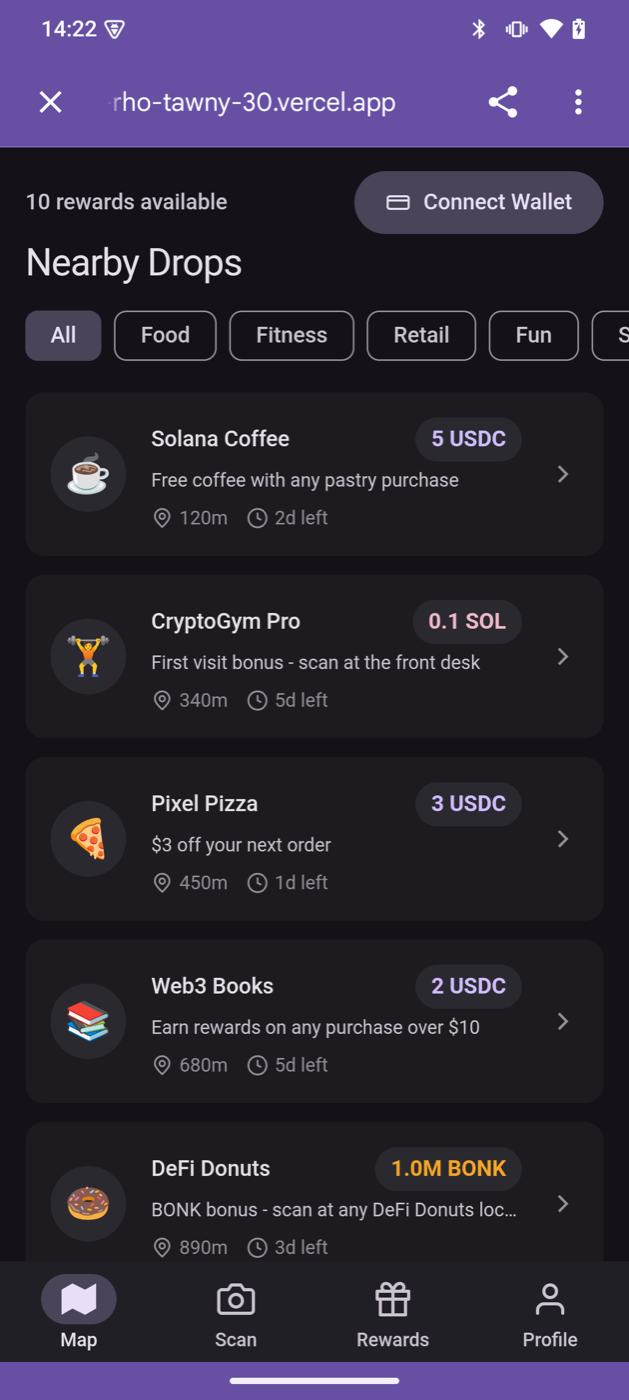
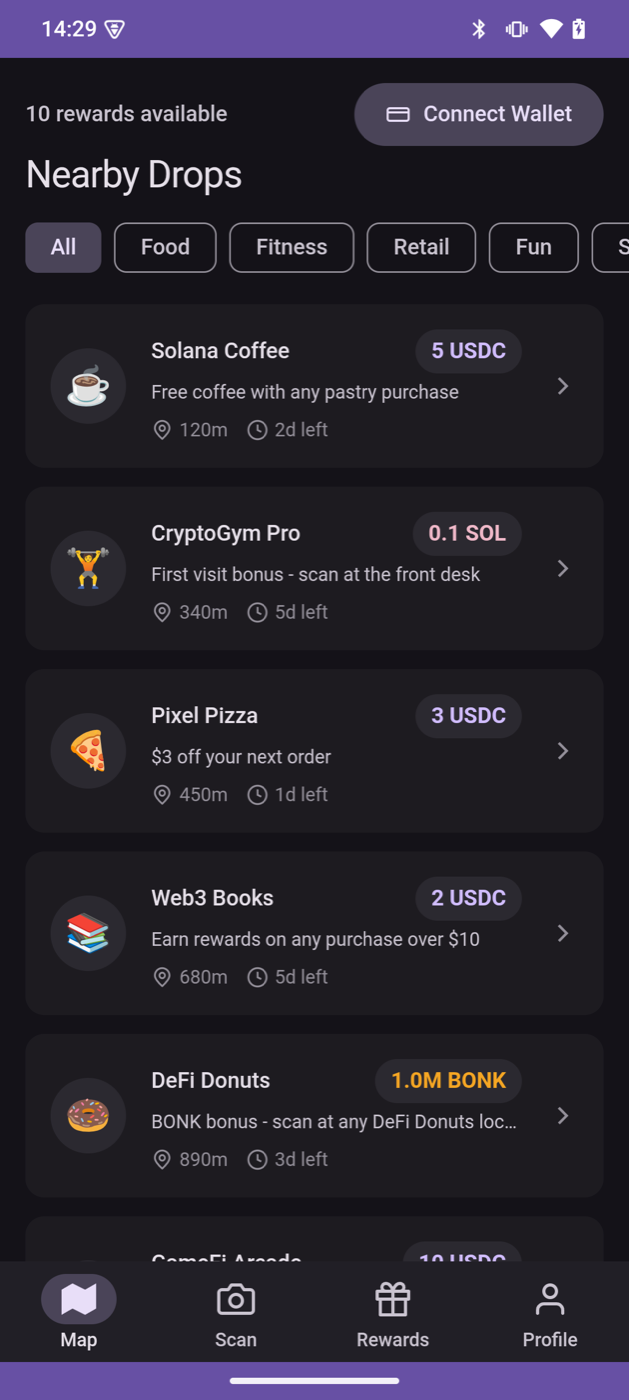
Fix toggle switches, add Digital Asset Links for fullscreen TWA
- Fix MD3 switch thumb positioning with translateY(-50%) centering
- Add .well-known/assetlinks.json for TWA domain verification
- Chrome URL bar now hidden — app renders fullscreen
- Update Seeker screenshots (no browser chrome)

diff --git a/web/src/routes/profile/+page.svelte b/web/src/routes/profile/+page.svelte
@@ -199,20 +199,22 @@
 			</div>
 			<!-- MD3 Switch -->
 			<div
-				class="h-8 rounded-full transition-colors relative"
+				class="shrink-0 rounded-full transition-colors duration-200 relative"
 				style="
 					width: 52px;
+					height: 32px;
 					background-color: {darkMode ? 'var(--md-sys-color-primary)' : 'var(--md-sys-color-surface-container-highest)'};
 					border: 2px solid {darkMode ? 'var(--md-sys-color-primary)' : 'var(--md-sys-color-outline)'};
 				"
 			>
 				<div
-					class="absolute rounded-full bg-white transition-all duration-200"
+					class="absolute rounded-full transition-all duration-200"
 					style="
 						width: {darkMode ? '24px' : '16px'};
 						height: {darkMode ? '24px' : '16px'};
-						top: {darkMode ? '0px' : '4px'};
-						left: {darkMode ? '24px' : '4px'};
+						top: 50%;
+						transform: translateY(-50%);
+						left: {darkMode ? '22px' : '6px'};
 						background-color: {darkMode ? 'var(--md-sys-color-on-primary)' : 'var(--md-sys-color-outline)'};
 					"
 				></div>
@@ -243,9 +245,10 @@
 			</div>
 			<!-- MD3 Switch -->
 			<div
-				class="h-8 rounded-full transition-colors relative"
+				class="shrink-0 rounded-full transition-colors duration-200 relative"
 				style="
 					width: 52px;
+					height: 32px;
 					background-color: {notifications ? 'var(--md-sys-color-primary)' : 'var(--md-sys-color-surface-container-highest)'};
 					border: 2px solid {notifications ? 'var(--md-sys-color-primary)' : 'var(--md-sys-color-outline)'};
 				"
@@ -255,8 +258,9 @@
 					style="
 						width: {notifications ? '24px' : '16px'};
 						height: {notifications ? '24px' : '16px'};
-						top: {notifications ? '0px' : '4px'};
-						left: {notifications ? '24px' : '4px'};
+						top: 50%;
+						transform: translateY(-50%);
+						left: {notifications ? '22px' : '6px'};
 						background-color: {notifications ? 'var(--md-sys-color-on-primary)' : 'var(--md-sys-color-outline)'};
 					"
 				></div>
